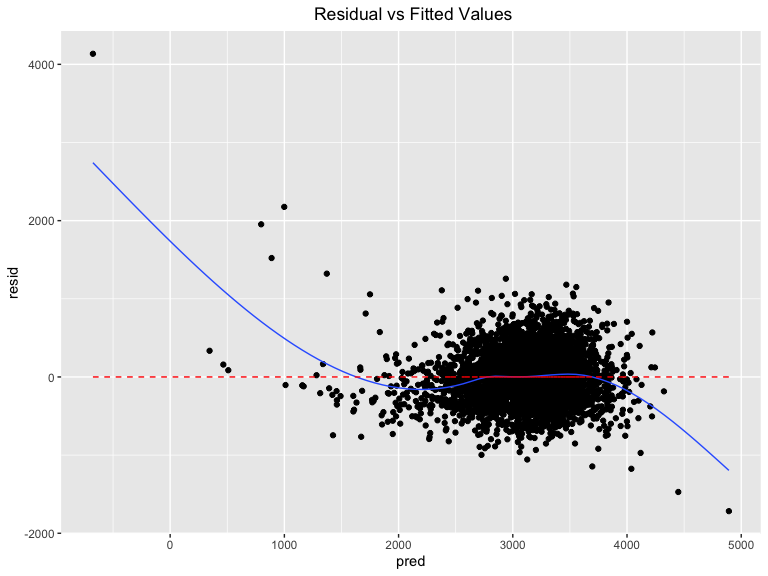
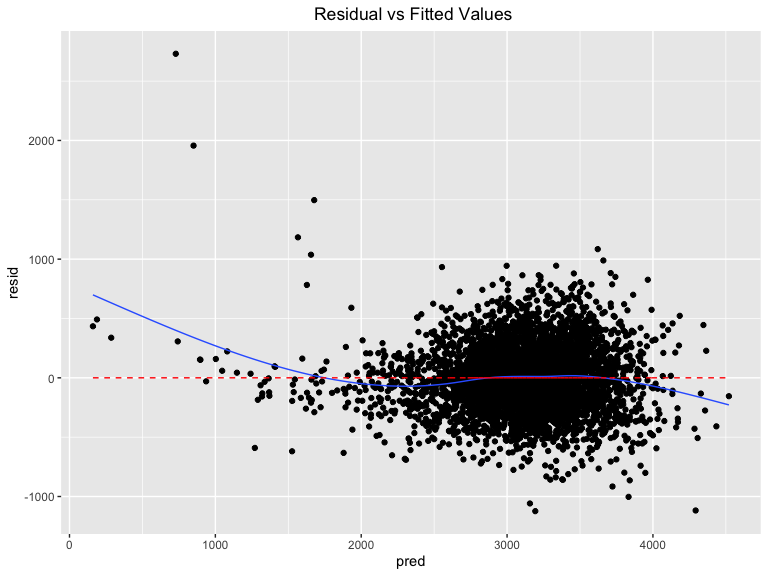
Making progress with problem 2. Time to go to bed!

diff --git a/p8105_hw6_yc384.md b/p8105_hw6_yc384.md
@@ -239,44 +239,48 @@ head(birthweight_tidy, 3)
 #### Step 4: Fit a linear regression based on literature review for low birthweight.
 
 My model will use birth weight (bwt) as the outcome variable and the
-following variables as predictors: babysex, gestational age in weeks,
+following variables as main effects: babysex, gestational age in weeks,
 baby’s length at birth and average number of cigarettes smoked per day
-during pregnancy.
+during pregnancy. I also included a two-way interaction term of
+blength\*bhead.
 
 ``` r
 bwt_lm = 
-        birthweight_tidy %>% 
-        lm(bwt ~ babysex + gaweeks + blength + smoken, data = .) 
+    birthweight_tidy %>% 
+    lm(bwt ~ babysex + gaweeks + blength + bhead + smoken + blength*bhead, data = .) 
 
 summary(bwt_lm)
 ```
 
     ## 
     ## Call:
-    ## lm(formula = bwt ~ babysex + gaweeks + blength + smoken, data = .)
+    ## lm(formula = bwt ~ babysex + gaweeks + blength + bhead + smoken + 
+    ##     blength * bhead, data = .)
     ## 
     ## Residuals:
-    ##     Min      1Q  Median      3Q     Max 
-    ## -1717.0  -216.1   -10.7   209.1  4135.1 
+    ##      Min       1Q   Median       3Q      Max 
+    ## -1123.38  -189.64   -11.39   177.04  2730.35 
     ## 
     ## Coefficients:
     ##                 Estimate Std. Error t value Pr(>|t|)    
-    ## (Intercept)   -4296.0991    98.8756 -43.450  < 2e-16 ***
-    ## babysexfemale   -20.2852    10.1830  -1.992 0.046428 *  
-    ## gaweeks          27.6832     1.7220  16.077  < 2e-16 ***
-    ## blength         127.4313     2.0087  63.439  < 2e-16 ***
-    ## smoken           -2.6190     0.6849  -3.824 0.000133 ***
+    ## (Intercept)   -2663.2630   811.9159  -3.280  0.00105 ** 
+    ## babysexfemale    35.3861     8.8493   3.999 6.47e-05 ***
+    ## gaweeks          15.2850     1.5255  10.019  < 2e-16 ***
+    ## blength           6.0767    17.1072   0.355  0.72245    
+    ## bhead            30.9783    24.9306   1.243  0.21409    
+    ## smoken           -1.6938     0.5871  -2.885  0.00394 ** 
+    ## blength:bhead     2.2780     0.5134   4.437 9.33e-06 ***
     ## ---
     ## Signif. codes:  0 '***' 0.001 '**' 0.01 '*' 0.05 '.' 0.1 ' ' 1
     ## 
-    ## Residual standard error: 332.6 on 4337 degrees of freedom
-    ## Multiple R-squared:  0.5786, Adjusted R-squared:  0.5783 
-    ## F-statistic:  1489 on 4 and 4337 DF,  p-value: < 2.2e-16
+    ## Residual standard error: 284.8 on 4335 degrees of freedom
+    ## Multiple R-squared:  0.6912, Adjusted R-squared:  0.6907 
+    ## F-statistic:  1617 on 6 and 4335 DF,  p-value: < 2.2e-16
 
-**Note:** From the model result, we can see that all the variables in my
-model are significant predictors of low baby birth weight. However, sex
-is very close to
-0.05.
+**Note:** From the model result, we can see that the two-way interaction
+term of blength\*bhead is highly significant. All other main effects
+(except the ones in the interaction term) are also significant
+predictors.
 
 #### Step 5: Plot model residuals against fitted values use add\_predictions and add\_residuals
 
@@ -292,11 +296,222 @@ bwt_plot %>%
   geom_line(aes(y = 0), color = "red", linetype = "dashed")
 ```
 
-    ## `geom_smooth()` using method = 'gam' and formula 'y ~ s(x, bs = "cs")'
-
 <img src="p8105_hw6_yc384_files/figure-gfm/unnamed-chunk-6-1.png" width="90%" />
 
 **Note:** From the above plot, we can see that my model fits the data
-well. The residuals are around line 0 without any pattern. There are a
-few points with large residuals that need to be investigated to see if
-there are any data entry errors or any special cases.
+very well. The residuals are around line 0 without any pattern. There
+are a couple of points with large residuals that need to be investigated
+to see if there are any data entry errors or any special cases.
+
+#### Step 6: Compare my model to two other models
+
+**Main effect model** using length at birth and gestational age as
+predictors
+
+``` r
+bwt_main = 
+        birthweight_tidy %>% 
+        lm(bwt ~ gaweeks + blength, data = .) 
+
+summary(bwt_main)
+```
+
+    ## 
+    ## Call:
+    ## lm(formula = bwt ~ gaweeks + blength, data = .)
+    ## 
+    ## Residuals:
+    ##     Min      1Q  Median      3Q     Max 
+    ## -1709.6  -215.4   -11.4   208.2  4188.8 
+    ## 
+    ## Coefficients:
+    ##              Estimate Std. Error t value Pr(>|t|)    
+    ## (Intercept) -4347.667     97.958  -44.38   <2e-16 ***
+    ## gaweeks        27.047      1.718   15.74   <2e-16 ***
+    ## blength       128.556      1.990   64.60   <2e-16 ***
+    ## ---
+    ## Signif. codes:  0 '***' 0.001 '**' 0.01 '*' 0.05 '.' 0.1 ' ' 1
+    ## 
+    ## Residual standard error: 333.2 on 4339 degrees of freedom
+    ## Multiple R-squared:  0.5769, Adjusted R-squared:  0.5767 
+    ## F-statistic:  2958 on 2 and 4339 DF,  p-value: < 2.2e-16
+
+**Three-way interaction model** using head circumference, length, sex,
+and all three-way interactions Make this comparison in terms of the
+cross-validated prediction error;
+
+``` r
+bwt_interaction = 
+        birthweight_tidy %>% 
+        lm(bwt ~ babysex*blength*bhead, data = .) 
+
+summary(bwt_main)
+```
+
+    ## 
+    ## Call:
+    ## lm(formula = bwt ~ gaweeks + blength, data = .)
+    ## 
+    ## Residuals:
+    ##     Min      1Q  Median      3Q     Max 
+    ## -1709.6  -215.4   -11.4   208.2  4188.8 
+    ## 
+    ## Coefficients:
+    ##              Estimate Std. Error t value Pr(>|t|)    
+    ## (Intercept) -4347.667     97.958  -44.38   <2e-16 ***
+    ## gaweeks        27.047      1.718   15.74   <2e-16 ***
+    ## blength       128.556      1.990   64.60   <2e-16 ***
+    ## ---
+    ## Signif. codes:  0 '***' 0.001 '**' 0.01 '*' 0.05 '.' 0.1 ' ' 1
+    ## 
+    ## Residual standard error: 333.2 on 4339 degrees of freedom
+    ## Multiple R-squared:  0.5769, Adjusted R-squared:  0.5767 
+    ## F-statistic:  2958 on 2 and 4339 DF,  p-value: < 2.2e-16
+
+**Make comparison** in terms of the cross-validated prediction error
+using crossv\_mc and functions in purrr.
+
+``` r
+cv_df = 
+  crossv_mc(birthweight_tidy, 100) 
+
+cv_df =
+  cv_df %>% 
+  mutate(
+    train = map(train, as_tibble),
+    test = map(test, as_tibble))
+```
+
+``` r
+cv_df = 
+  cv_df %>% 
+  mutate(
+  my_mod=map(train, ~lm(bwt ~ babysex + gaweeks + blength + bhead + smoken + blength*bhead , data = .) ),
+  main_mod=map(train, ~lm(bwt ~ gaweeks + blength, data = .)),
+  interaction_mod=map(train, ~lm(bwt ~ babysex*blength*bhead, data = .)))%>% 
+  mutate(
+  rmse_my = map2_dbl(my_mod, test, ~rmse(model = .x, data = .y)),
+  rmse_main = map2_dbl(main_mod, test, ~rmse(model = .x, data = .y)),
+  rmse_interaction = map2_dbl(interaction_mod, test, ~rmse(model = .x, data = .y)))
+```
+
+``` r
+  cv_df %>% 
+  select(starts_with("rmse")) %>% 
+  pivot_longer(everything(),
+               names_to = "model",
+               values_to = "rmse",
+               names_prefix = "rmse_"
+  ) %>% 
+  mutate(model = factor(model)) %>% 
+  ggplot(aes(x = model, y = rmse,fill = model)) +
+  geom_violin(alpha = 0.4) +
+  geom_boxplot(width = 0.1, lwd = 0.7) +
+  labs( title = "Model comparison by RMSE")
+```
+
+<img src="p8105_hw6_yc384_files/figure-gfm/unnamed-chunk-11-1.png" width="90%" />
+
+**Note:** From above plots, we can see that my model did the best with
+lowest RMSEs. The model will all three-way interaction terms had
+slighted higher RMSEs than my model. The model with only two main
+effects did the
+worst.
+
+## Problem 2: Use the 2017 Central Park weather data. We’ll focus on a simple linear regression with tmax as the response and tmin as the predictor, and are interested in the distribution of two quantities estimated from these data: r̂2, log(β̂0∗β̂1)
+
+#### Step 1: Download data.
+
+``` r
+weather_df = 
+  rnoaa::meteo_pull_monitors(
+    c("USW00094728"),
+    var = c("PRCP", "TMIN", "TMAX"), 
+    date_min = "2017-01-01",
+    date_max = "2017-12-31") %>%
+  mutate(
+    name = recode(id, USW00094728 = "CentralPark_NY"),
+    tmin = tmin / 10,
+    tmax = tmax / 10) %>%
+  select(name, id, everything())
+```
+
+    ## Registered S3 method overwritten by 'crul':
+    ##   method                 from
+    ##   as.character.form_file httr
+
+    ## Registered S3 method overwritten by 'hoardr':
+    ##   method           from
+    ##   print.cache_info httr
+
+    ## file path:          /Users/macbook/Library/Caches/rnoaa/ghcnd/USW00094728.dly
+
+    ## file last updated:  2019-09-04 21:33:58
+
+    ## file min/max dates: 1869-01-01 / 2019-09-30
+
+``` r
+head(weather_df, 3)
+```
+
+    ## # A tibble: 3 x 6
+    ##   name           id          date        prcp  tmax  tmin
+    ##   <chr>          <chr>       <date>     <dbl> <dbl> <dbl>
+    ## 1 CentralPark_NY USW00094728 2017-01-01     0   8.9   4.4
+    ## 2 CentralPark_NY USW00094728 2017-01-02    53   5     2.8
+    ## 3 CentralPark_NY USW00094728 2017-01-03   147   6.1   3.9
+
+#### Step 2: Bootstraping 5000 samples using broom::glance() for extracting r̂2 from a fitted regression, and broom::tidy() in computing log(β̂0∗β̂1)
+
+``` r
+bootstrap_sample = 
+  weather_df %>% 
+  modelr::bootstrap(n = 5000) %>% 
+  mutate(
+    models = map(strap, ~ lm(tmax ~ tmin, data = .x)),
+    results = map(models, broom::tidy),
+    variables = map(models, broom::glance)
+    ) %>% 
+  select(-strap, -models) %>% 
+  unnest(results, variables)
+
+head(bootstrap_sample, 5)
+```
+
+    ## # A tibble: 5 x 17
+    ##   .id   term  estimate std.error statistic   p.value r.squared
+    ##   <chr> <chr>    <dbl>     <dbl>     <dbl>     <dbl>     <dbl>
+    ## 1 0001  (Int…     6.94    0.225       30.8 2.70e-103     0.917
+    ## 2 0001  tmin      1.06    0.0167      63.2 4.62e-198     0.917
+    ## 3 0002  (Int…     7.35    0.221       33.3 3.09e-112     0.903
+    ## 4 0002  tmin      1.02    0.0175      58.1 7.17e-186     0.903
+    ## 5 0003  (Int…     6.72    0.223       30.1 1.08e-100     0.921
+    ## # … with 10 more variables: adj.r.squared <dbl>, sigma <dbl>,
+    ## #   statistic1 <dbl>, p.value1 <dbl>, df <int>, logLik <dbl>, AIC <dbl>,
+    ## #   BIC <dbl>, deviance <dbl>, df.residual <int>
+
+#### Step 3: Plot the distribution of your estimates, and describe these in words.
+
+``` r
+bootstrap_sample %>% 
+  filter(term == "tmin") %>% 
+  select(r.squared, adj.r.squared) %>%
+  ggplot() + 
+  geom_histogram(aes(x = r.squared, y =..density.., alpha = 0.5, fill = "grey")) +
+  geom_density(aes(x = r.squared,y=..density.., alpha = 0.5, color = "red")) +
+  labs(
+    title = "Distribution of Estimated RSquare",
+    x = "Estimates of RSquare",
+    y = "Density",
+    caption = "Data: 2017 Central Park weather data ") +
+  geom_vline(aes(xintercept = mean(r.squared))) +
+  theme(plot.title = element_text(hjust = 0.5))
+```
+
+<img src="p8105_hw6_yc384_files/figure-gfm/unnamed-chunk-14-1.png" width="90%" />
+
+**Note:** From above plot, we can see that the distribution of R square
+is close to a normal
+distribution.
+
+#### Step 4: Using the 5000 bootstrap estimates, identify the 2.5% and 97.5% quantiles to provide a 95% confidence interval for r̂2 and log(β̂0∗β̂1)
